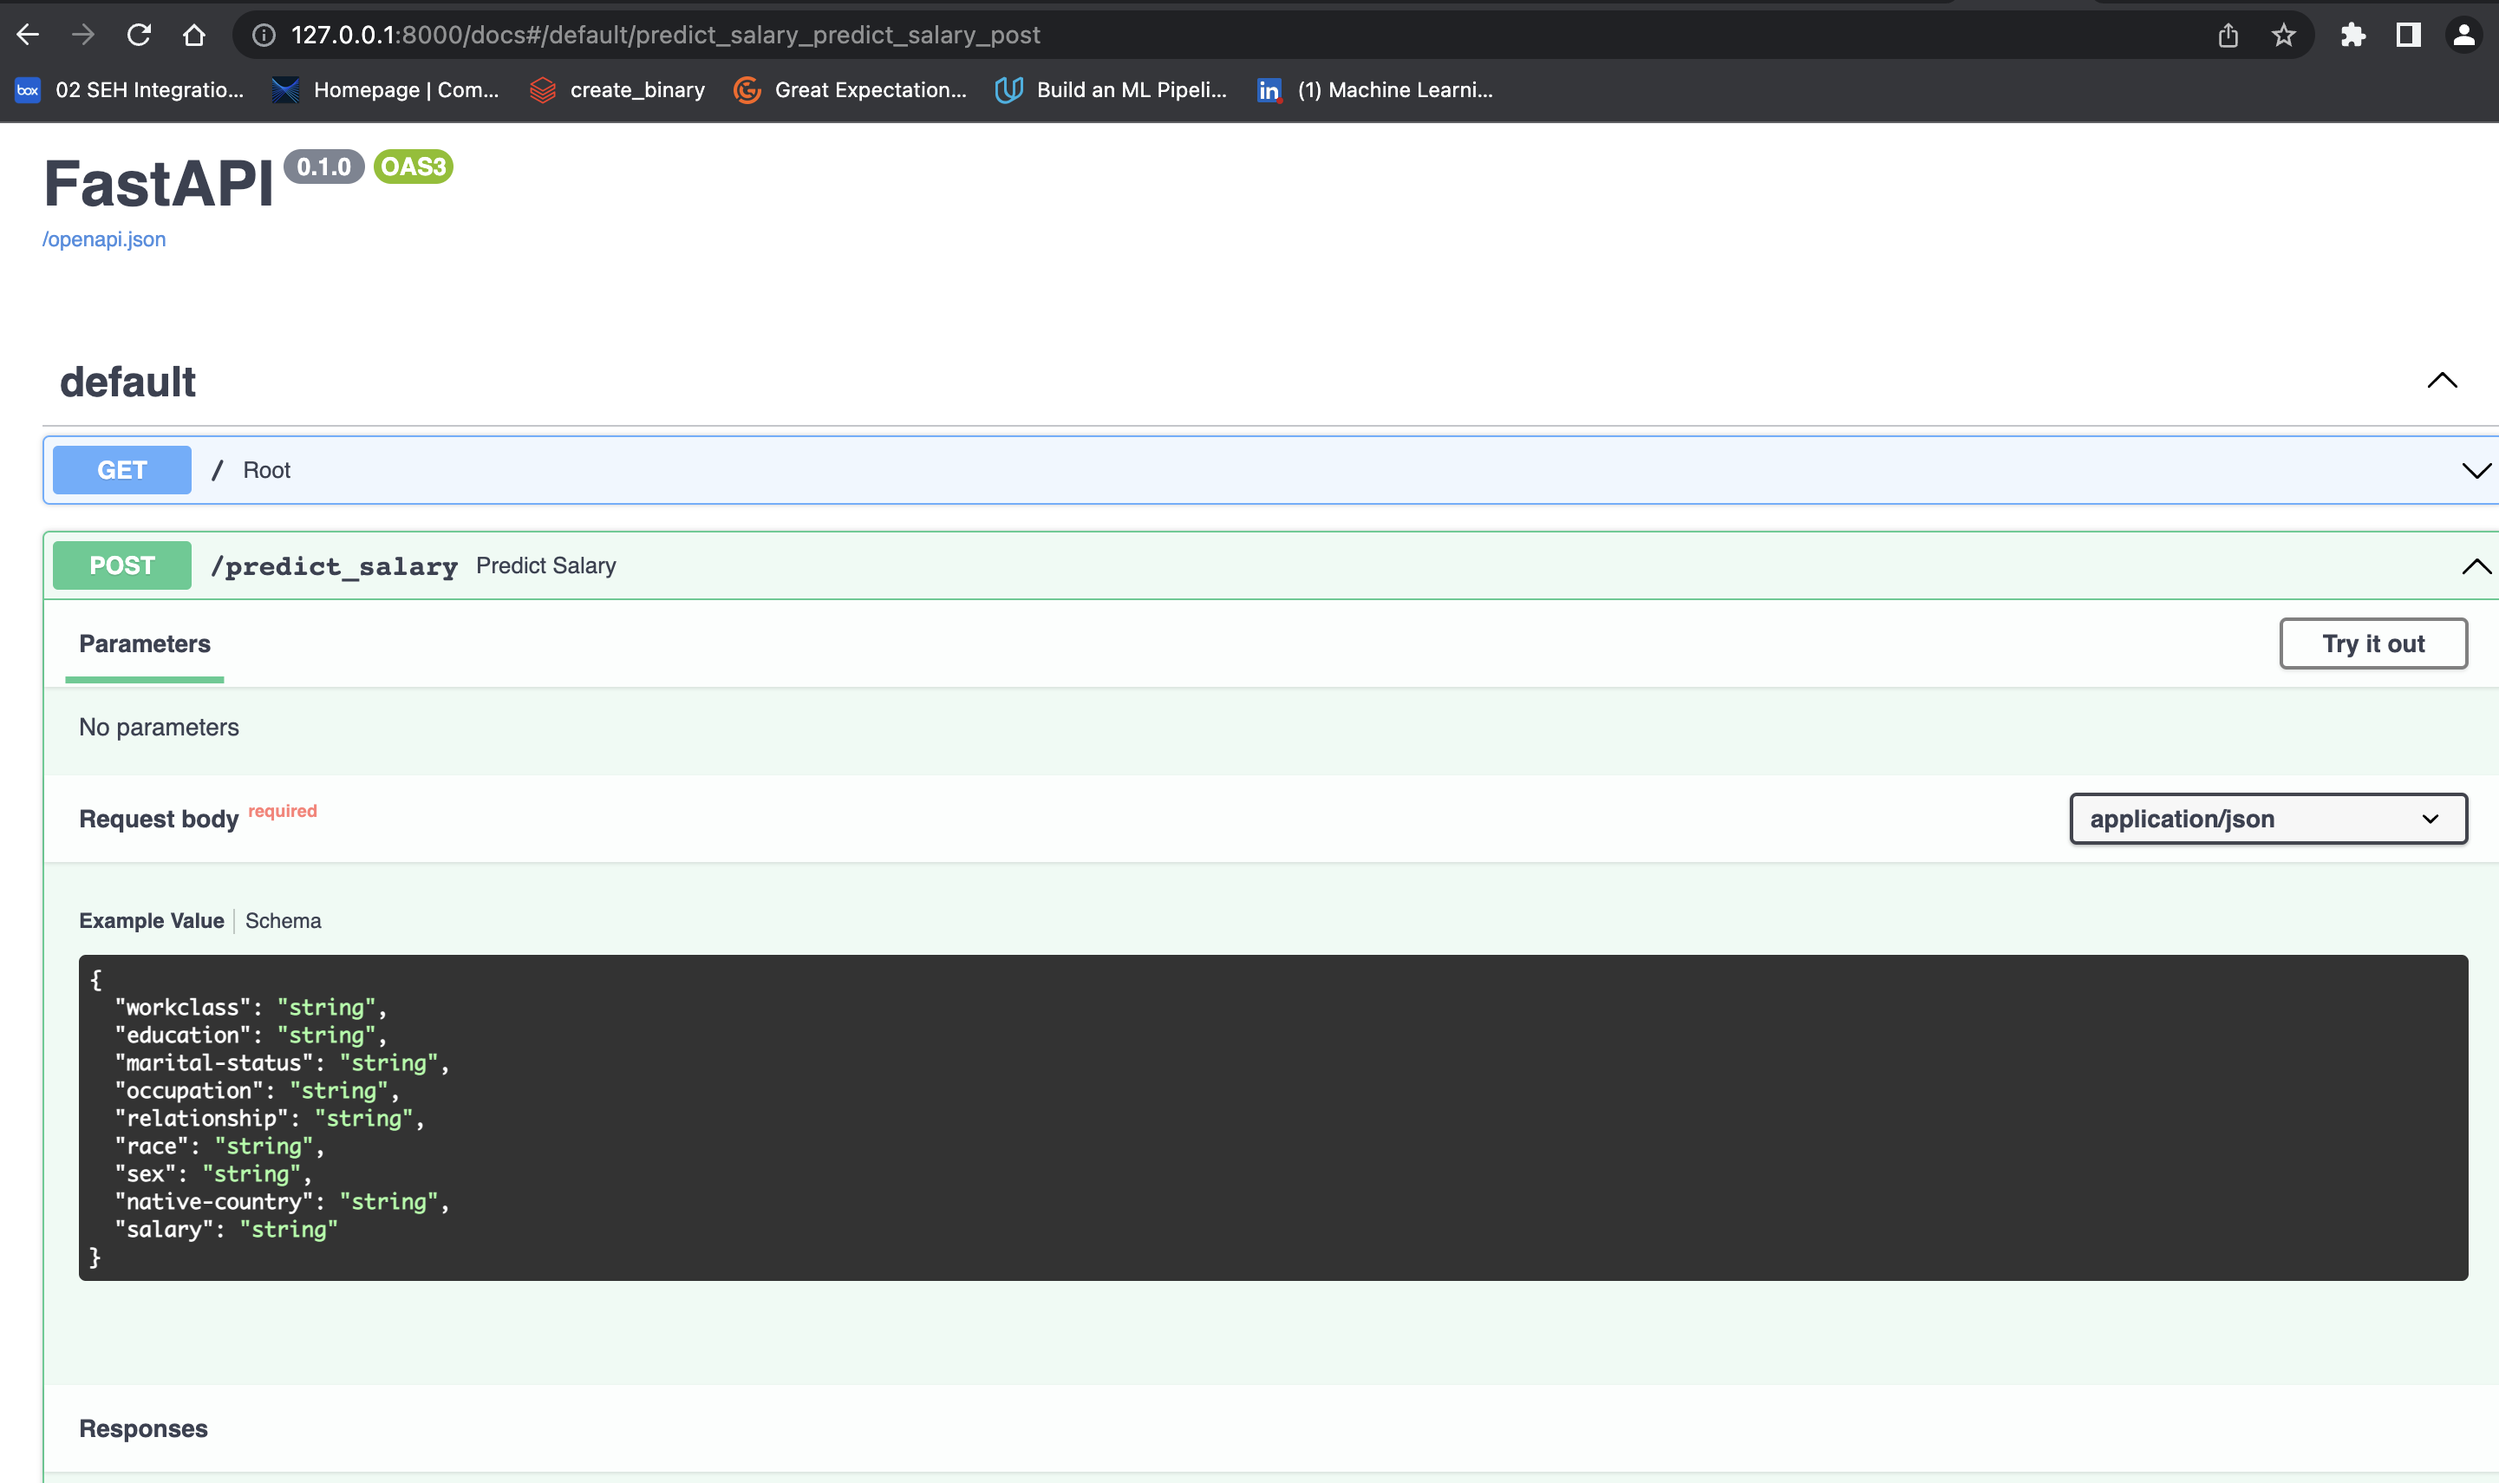
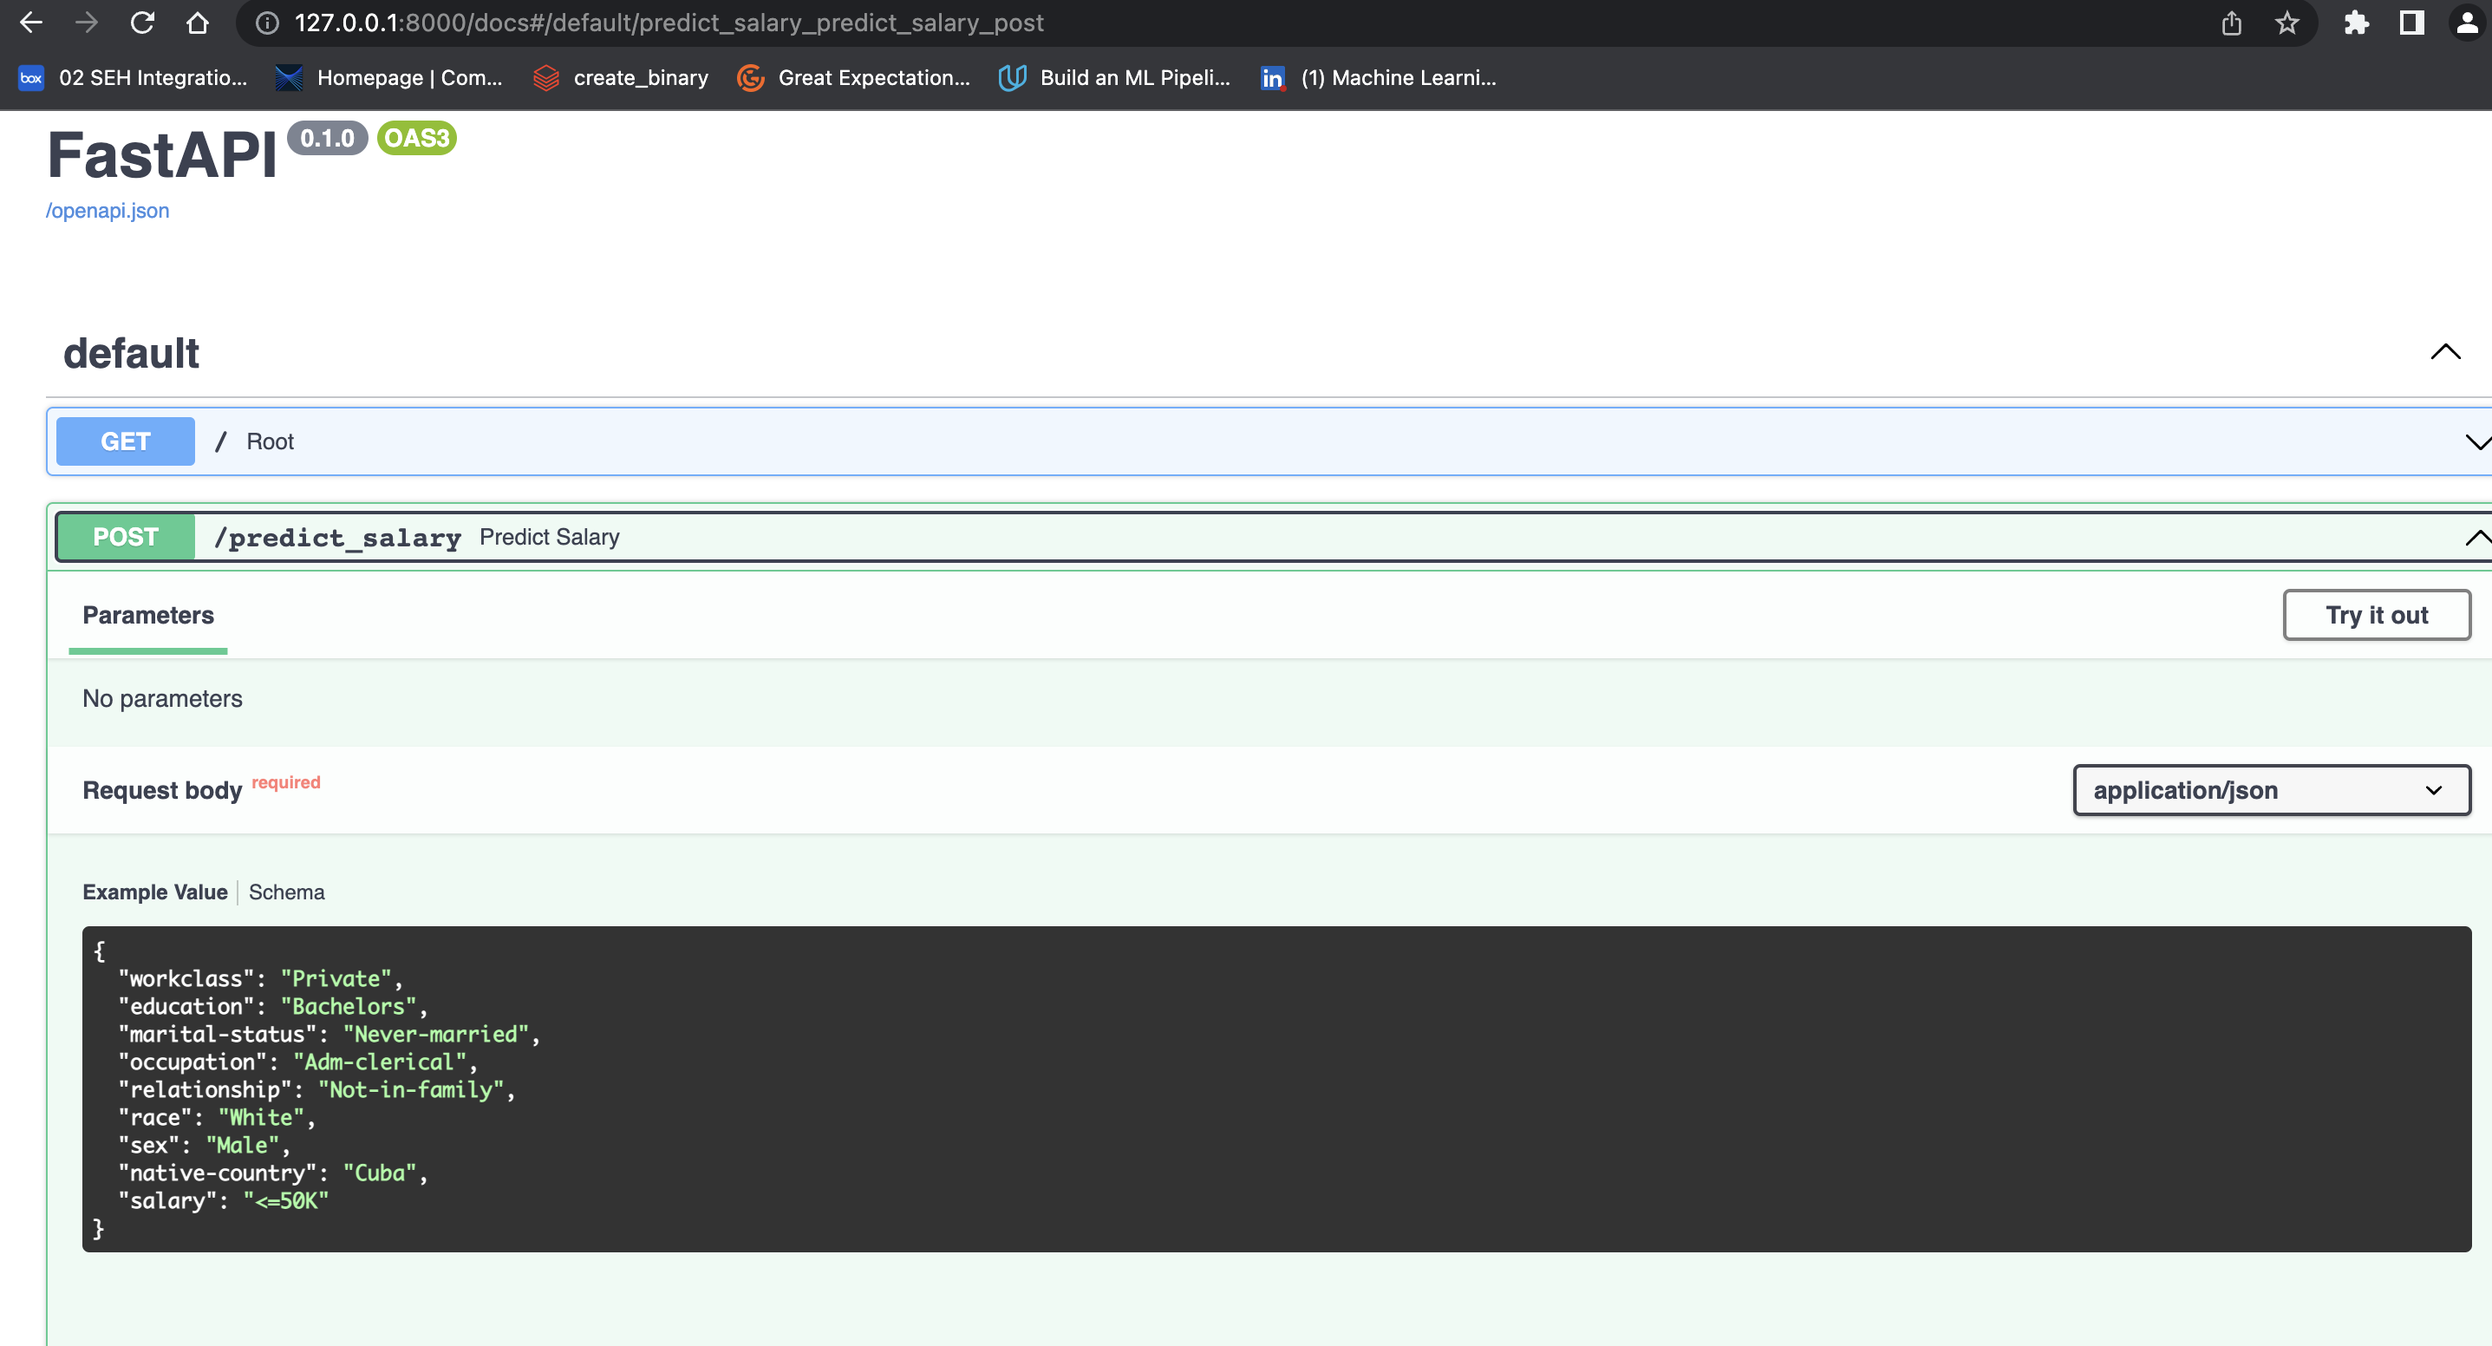
included example inputs in body

diff --git a/main.py b/main.py
@@ -34,6 +34,19 @@ class CensusValue(BaseModel):
 
     class Config:
         allow_population_by_field_name = True
+        schema_extra = {
+            "example": {
+                "workclass": "Private",
+                "education": "Bachelors",
+                "marital-status": "Never-married",
+                "occupation": "Adm-clerical",
+                "relationship": "Not-in-family",
+                "race": "White",
+                "sex": "Male",
+                "native-country": "Cuba",
+                "salary": "<=50K"
+            }
+        }
 
 
 @app.get("/")
